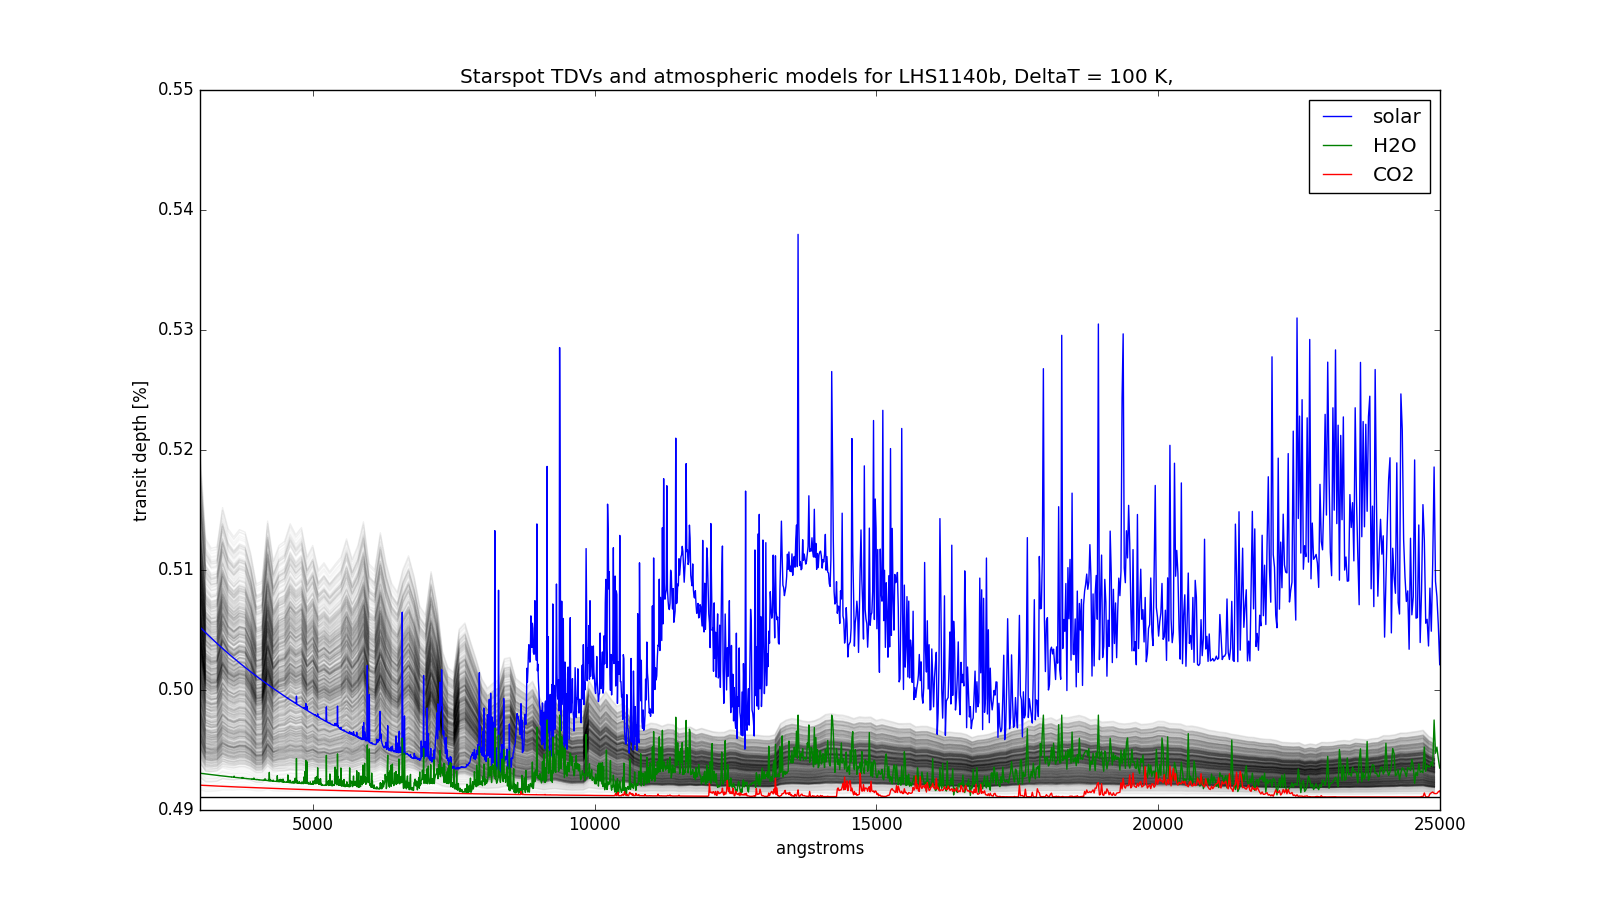
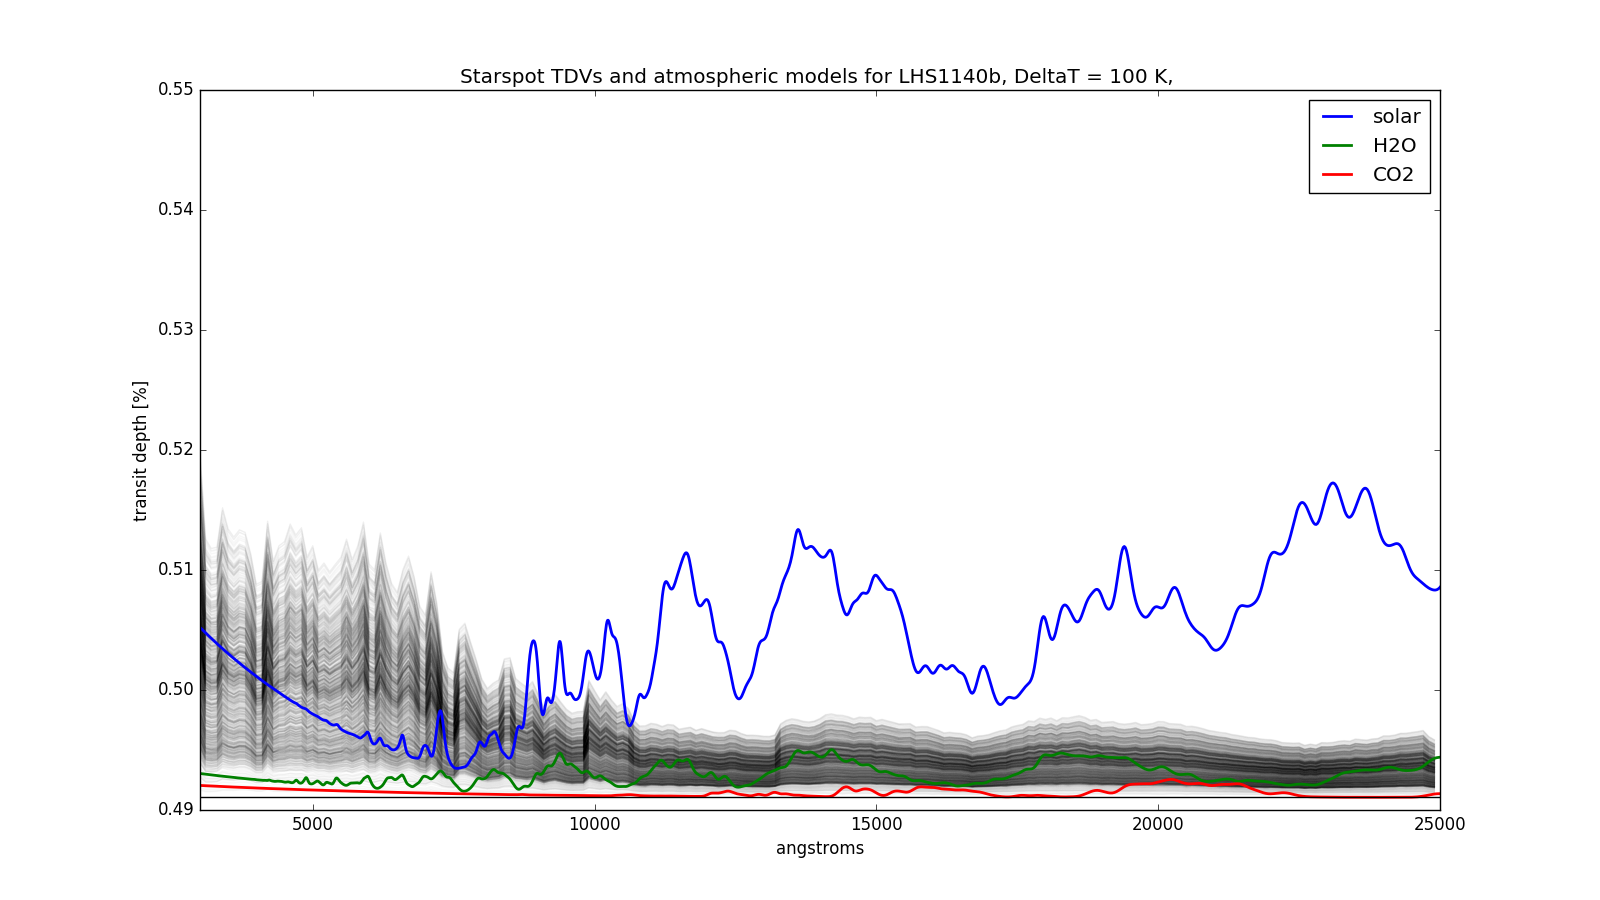
Comparison plots: Sun 97, TRAPPIST-1 44

Changed region(s): [[0.125, 0.4044, 0.9062, 0.9022], [0.1562, 0.7467, 0.1875, 0.7778]]

diff --git a/comparison_plot.py b/comparison_plot.py
@@ -18,12 +18,12 @@ import matplotlib.pyplot as plt
 import pickle
 
 # Set variables
-planet = "LHS1140b"
-dT = 100
-flux_file = "/home/ryan/research/starspots/TDV/LHS1140b_100K/fluxes/014.pkl"
-solar_file = "/home/ryan/research/starspots/Exo_Transmit/Spectra/LHS1140/300K_solar_LHS1140b.dat"
-H2O_file = "/home/ryan/research/starspots/Exo_Transmit/Spectra/LHS1140/300K_H2O_LHS1140b.dat"
-CO2_file = "/home/ryan/research/starspots/Exo_Transmit/Spectra/LHS1140/300K_CO2_LHS1140b.dat"
+planet = "Earth_TRAPPIST-1"
+dT = 260
+flux_file = "/home/ryan/research/starspots/TDV/02560_02300_0.078_filtered/fluxes/044.pkl"
+solar_file = "/home/ryan/research/starspots/Exo_Transmit/Spectra/Earth/300K_solar_earth_trappist1.dat"
+H2O_file = "/home/ryan/research/starspots/Exo_Transmit/Spectra/Earth/300K_H2O_earth_trappist1.dat"
+CO2_file = "/home/ryan/research/starspots/Exo_Transmit/Spectra/Earth/300K_CO2_earth_trappist1.dat"
 labels = ["solar", "H2O", "CO2"]
 xmin, xmax, dx = 3000, 25000, 100
 
@@ -34,6 +34,13 @@ params, flux = pickle.load(open(flux_file, "rb"))
 solar = np.genfromtxt(solar_file, skip_header=2)
 H2O = np.genfromtxt(H2O_file, skip_header=2)
 CO2 = np.genfromtxt(CO2_file, skip_header=2)
+
+# Convolve Exo-Transmit spectra to lower resolution
+from astropy.convolution import Gaussian1DKernel, convolve
+gauss = Gaussian1DKernel(stddev=5)
+solar[:,1] = convolve(solar[:,1], gauss, boundary='extend')
+H2O[:,1] = convolve(H2O[:,1], gauss, boundary='extend')
+CO2[:,1] = convolve(CO2[:,1], gauss, boundary='extend')
 spectra = np.array([solar, H2O, CO2])
 
 # Convert flux to transit depth
@@ -48,15 +55,15 @@ for i in range(int(len(TDV[0])/10)):
 
 # Overplot transmission spectra
 for spectrum, label in zip(spectra, labels):
-  plt.plot(spectrum[:,0]*1e10, spectrum[:,1], label=label)
+  plt.plot(spectrum[:,0]*1e10, spectrum[:,1], linewidth=2, label=label)
 
 # Format plot
 plt.axhline(Rp_Rs**2*100, color='k')
 plt.xlim((xmin, xmax))
-plt.ylim((0.49, 0.55))
+plt.ylim((0.6, 0.7))
 plt.legend()
 plt.xlabel("angstroms")
 plt.ylabel("transit depth [%]")
-plt.title("Starspot TDVs and atmospheric models for {}, DeltaT = {:d} K, ".format(planet, dT))
+plt.title("Starspot TDVs and atmospheric models for Earth-size planet in HZ of TRAPPIST-1, DeltaT = {:d} K".format(dT))
 plt.savefig("comparison_{}_{:d}K.png".format(planet, dT))
 
